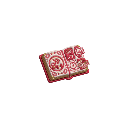
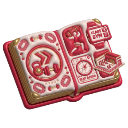
fix(nav): ikon produk tanpa latar + diperbesar
Umpan balik pemilik dari staging: ikon kekecilan & masih ada "kotak" latar.

- Latar putih yang KE-BAKE di artwork branded DIHAPUS: tiap ikon diproses ulang,
  latar putih di-flood-fill dari tepi jadi transparan (detail DALAM ikon -- mis.
  pintu rumah, label apel -- tetap utuh karena fill cuma dari pinggir).
  img/products/*.png diregenerasi (kini transparan penuh).
- Chip putih + shadow di CSS dibuang. Ikon dibesarkan: holder 52px (bar) / 46px
  (embed) dan artwork mengisi penuh -> terlihat jauh lebih besar & bersih di
  light MAUPUN dark.
- Ikon garis (Body Scan, Talent) ikut dibesarkan, merah 20FIT, tanpa latar.

Verifikasi: node --check lolos; render embed light+dark via Chromium (tanpa
latar, ikon lebih besar, kebaca di kedua tema); ikon dicek di atas magenta untuk
memastikan latar benar-benar transparan, bukan putih-di-atas-putih.

Claude-Session: https://claude.ai/code/session_01FmU5kKPHEtyxZUJUXPgCCx

diff --git a/js/universal-nav.js b/js/universal-nav.js
@@ -184,10 +184,10 @@
     // 2 produk tanpa artwork, ikon garis berwarna merah 20FIT.
     var inner = it.img
       ? '<img class="un-img" src="' + esc(ICON_BASE + it.img) + '" alt="" loading="lazy">'
-      : '<span style="color:#C41101;line-height:0">' + svg(it.icon, size + 4) + '</span>';
+      : svg(it.icon, size);
     return '<a class="un-app" role="menuitem" href="' + esc(it.url) + '" data-id="' + esc(it.id) + '"' +
       (on ? ' aria-current="page"' : '') + '>' +
-      '<span class="un-ic un-chip">' + inner + '</span>' +
+      '<span class="un-ic' + (it.img ? '' : ' un-line') + '">' + inner + '</span>' +
       '<span class="un-l">' + esc(it.label) + '</span>' +
       (embed ? '' : '<span class="un-d">' + esc(it.desc) + '</span>') +
       (on ? '<span class="un-here">● Kamu di sini</span>' : '') +
@@ -247,10 +247,11 @@
     'text-decoration:none;color:#1a1a1a;border:2px solid transparent;background:transparent;cursor:pointer;font-family:inherit}',
     '.un-app:hover{background:#f5f5f5}',
     '.un-app[aria-current="page"]{background:#f0f0f0;border-color:#111;cursor:default}',
-    '.un-app .un-ic{line-height:0}',
-    '.un-chip{width:46px;height:46px;border-radius:13px;background:#fff;display:flex;align-items:center;justify-content:center;box-shadow:0 1px 4px rgba(0,0,0,.12);overflow:hidden}',
-    '.un-img{width:90%;height:90%;object-fit:contain;display:block}',
-    '.un-embed .un-chip{width:40px;height:40px;border-radius:11px}',
+    '.un-app .un-ic{width:52px;height:52px;display:flex;align-items:center;justify-content:center;line-height:0}',
+    '.un-embed .un-app .un-ic{width:46px;height:46px}',
+    '.un-ic .un-img{width:100%;height:100%;object-fit:contain;display:block}',
+    '.un-ic.un-line{color:#C41101}',
+    '.un-ic.un-line svg{width:88%;height:88%}',
     '.un-app .un-l{font-size:12px;font-weight:600;line-height:1.2}',
     '.un-app .un-d{font-size:10px;color:#888;line-height:1.2}',
     '.un-here{font-size:9px;color:#16A34A;font-weight:700}',
